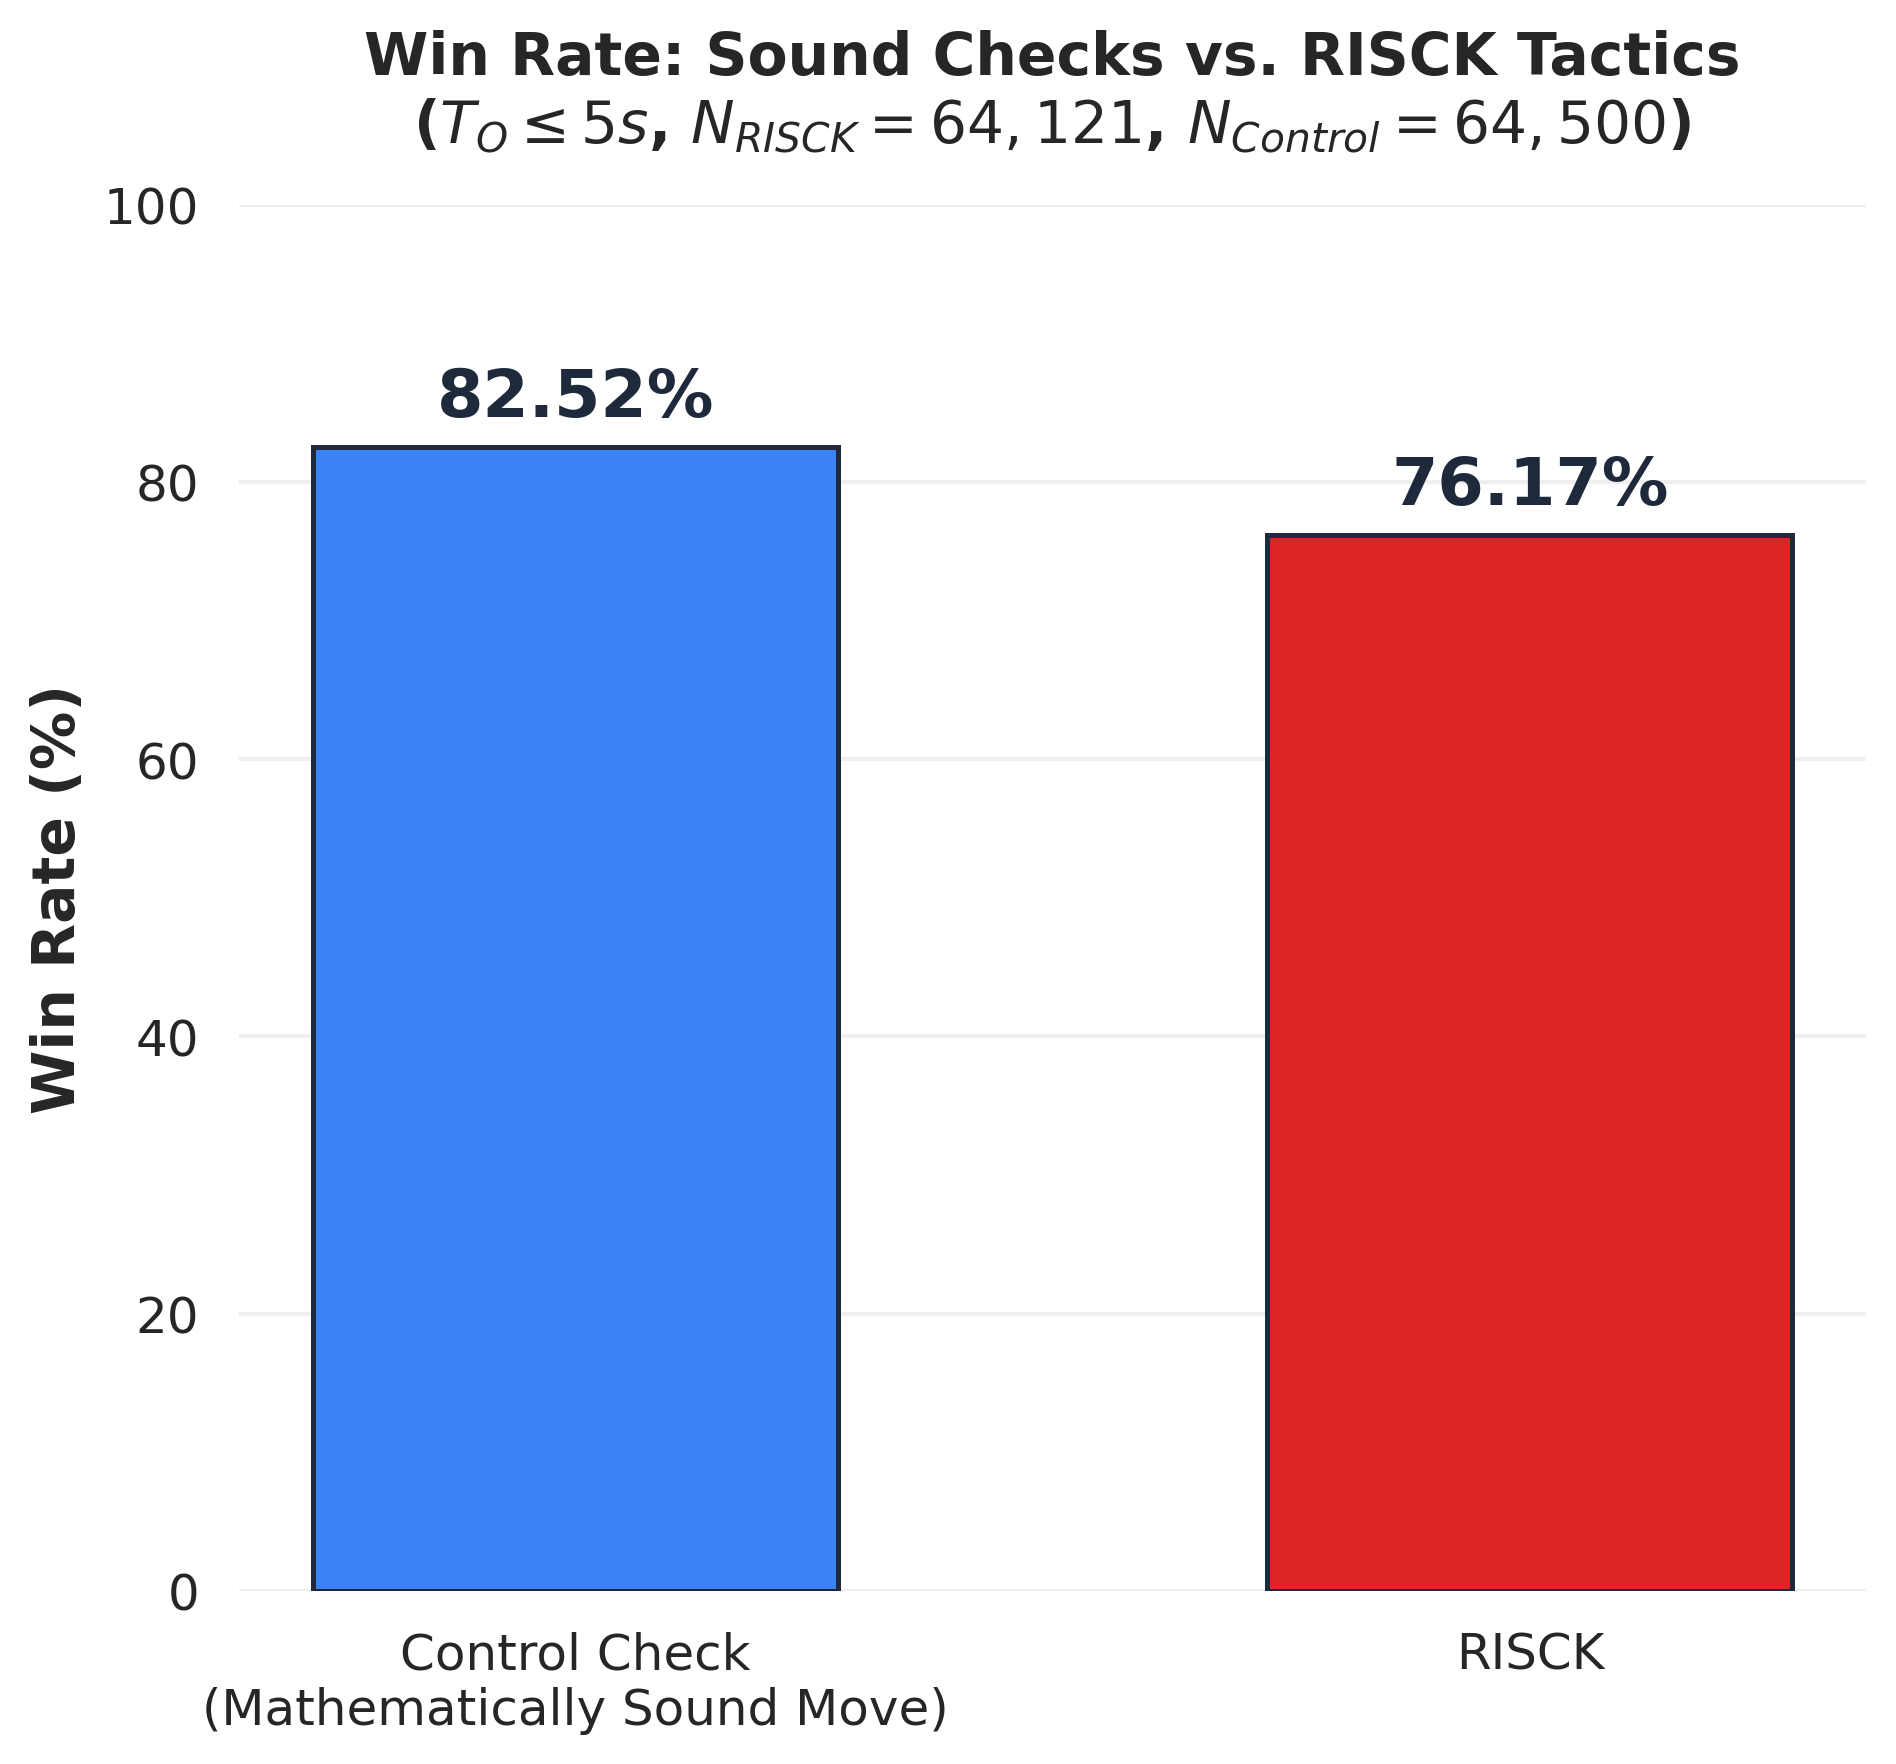
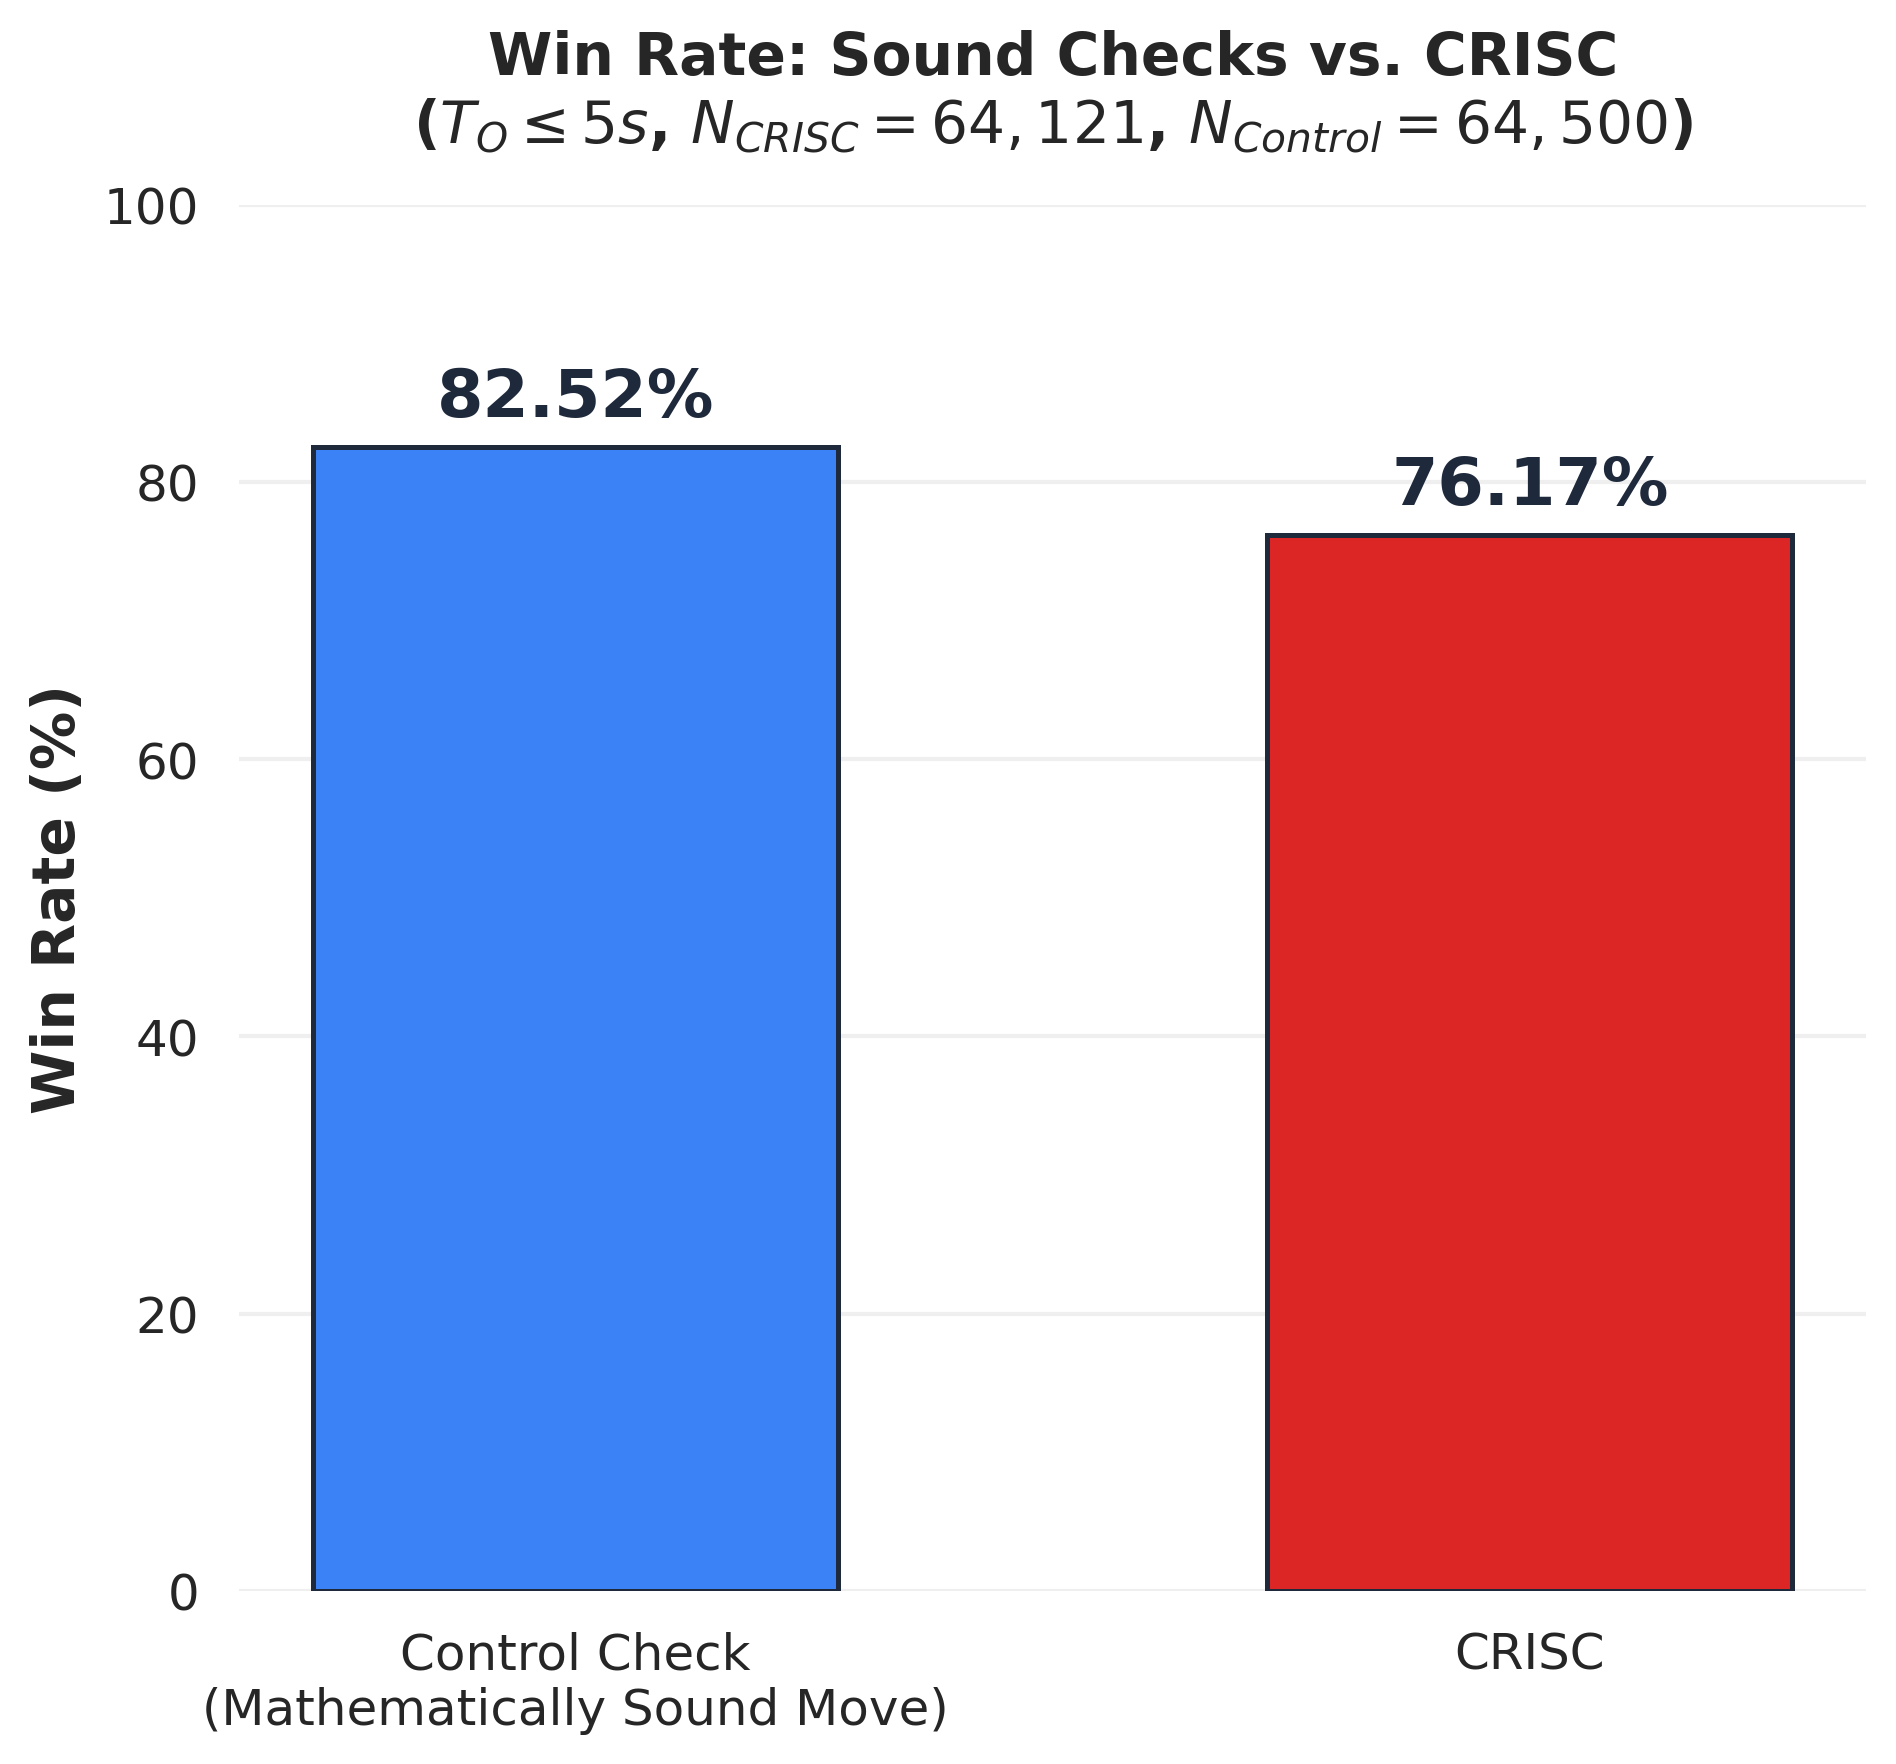
docs: apply renaming from RISCK to CRISC without breaking functionality

Changed region(s): [[0.1867, 0.0, 0.9335, 0.0935], [0.778, 0.9042, 0.8402, 0.9666]]

diff --git a/crisc_winrate.py b/crisc_winrate.py
@@ -2,32 +2,32 @@ import pandas as pd
 import sys
 
 if len(sys.argv) < 2:
-    print("Usage: python risck_winrate.py <MONTH>")
+    print("Usage: python crisc_winrate.py <MONTH>")
     sys.exit(1)
 
 month = sys.argv[1]
 
-print("Calculating Global RISCK Win Rate ...")
+print("Calculating Global CRISC Win Rate ...")
 
-# 1. Load the finalized RISCK dataset
-df = pd.read_csv(f'./true_riscks/true_riscks_{month}.csv')
-total_riscks = len(df)
+# 1. Load the finalized CRISC dataset
+df = pd.read_csv(f'./true_criscs/true_criscs_{month}.csv')
+total_criscs = len(df)
 
-if total_riscks == 0:
-    print("Dataset is empty. No RISCKs to analyze.")
+if total_criscs == 0:
+    print("Dataset is empty. No CRISCs to analyze.")
     exit()
 
-# 2. Filter for games where the player who executed the RISCK actually won
+# 2. Filter for games where the player who executed the CRISC actually won
 # '1-0' means White won, '0-1' means Black won
-white_wins = df[(df['risck_player'] == 'White') & (df['result'] == '1-0')]
-black_wins = df[(df['risck_player'] == 'Black') & (df['result'] == '0-1')]
+white_wins = df[(df['crisc_player'] == 'White') & (df['result'] == '1-0')]
+black_wins = df[(df['crisc_player'] == 'Black') & (df['result'] == '0-1')]
 
 total_wins = len(white_wins) + len(black_wins)
 
 # 3. Calculate the percentage
-win_rate = (total_wins / total_riscks) * 100
+win_rate = (total_wins / total_criscs) * 100
 
-print(f"Total True RISCKs analyzed: {total_riscks}")
-print(f"Total games WON after executing a RISCK: {total_wins}")
-print(f"\n--- GLOBAL RISCK WIN RATE ---")
+print(f"Total True CRISCs analyzed: {total_criscs}")
+print(f"Total games WON after executing a CRISC: {total_wins}")
+print(f"\n--- GLOBAL CRISC WIN RATE ---")
 print(f"{win_rate:.2f}%\n")

diff --git a/crisc_geometric_filter.py b/crisc_geometric_filter.py
@@ -3,19 +3,19 @@ import chess
 import sys
 
 if len(sys.argv) < 2:
-    print("Usage: python risck_geometric_filter.py <MONTH>")
+    print("Usage: python crisc_geometric_filter.py <MONTH>")
     sys.exit(1)
 
 month = sys.argv[1]
 
-print("Starting Step 2: Geometric RISCK Filter...")
+print("Starting Step 2: Geometric CRISC Filter...")
 
 # 1. Load the Step 1 (DuckDB) Data
-df = pd.read_csv(f'./candidate_riscks/candidate_riscks_{month}.csv')
+df = pd.read_csv(f'./candidate_criscs/candidate_criscs_{month}.csv')
 total_candidates = len(df)
-print(f"Loaded {total_candidates} candidate RISCKs. Processing...")
+print(f"Loaded {total_candidates} candidate CRISCs. Processing...")
 
-true_riscks = []
+true_criscs = []
 error_count = 0
 
 # 2. Iterate over the FULL dataset
@@ -23,7 +23,7 @@ for index, row in df.iterrows():
     
     # Print a progress update every 10,000 rows
     if index > 0 and index % 10000 == 0:
-        print(f"Processed {index}/{total_candidates} rows... Found {len(true_riscks)} RISCKs so far.")
+        print(f"Processed {index}/{total_candidates} rows... Found {len(true_criscs)} CRISCs so far.")
         
     game_id = row['lichess_id']
     target_ply = int(row['ply'])
@@ -46,20 +46,20 @@ for index, row in df.iterrows():
         is_major_piece = piece_type != chess.PAWN
         
         if is_adjacent and is_capturable and is_major_piece:
-            true_riscks.append(row)
+            true_criscs.append(row)
             
     except ValueError as e:
         error_count += 1
         continue
 
 # 3. Save the final refined dataset
-final_df = pd.DataFrame(true_riscks)
+final_df = pd.DataFrame(true_criscs)
 if not final_df.empty:
     final_df = final_df.drop(columns=['move_list'])
-final_df.to_csv(f'./true_riscks/true_riscks_{month}.csv', index=False)
+final_df.to_csv(f'./true_criscs/true_criscs_{month}.csv', index=False)
 
-print(f"\nStep 2 (Geometric RISCK Filter) Complete!")
-print(f"Found {len(true_riscks)} True RISCKs out of {total_candidates} total candidates.")
+print(f"\nStep 2 (Geometric CRISC Filter) Complete!")
+print(f"Found {len(true_criscs)} True CRISCs out of {total_candidates} total candidates.")
 if error_count > 0:
     print(f"Note: {error_count} games were skipped due to PGN/UCI parsing errors.")
-print(f"Saved to './true_riscks/true_riscks_{month}.csv'.")
+print(f"Saved to './true_criscs/true_criscs_{month}.csv'.")

diff --git a/generate_visuals.py b/generate_visuals.py
@@ -41,11 +41,11 @@ ctrl_n_sampled = int(ctrl_combined['Total_Sampled'])
 ctrl_wr = float(ctrl_combined['Win_Rate'].strip('%')) if 'Win_Rate' in ctrl_combined and pd.notna(ctrl_combined['Win_Rate']) else None
 
 # ============================================================
-# FIGURE 1: RISCK Win Rate vs Baseline
+# FIGURE 1: CRISC Win Rate vs Baseline
 # ============================================================
 fig1, ax1 = plt.subplots(figsize=(7, 6))
 
-categories = ['Control Check\n(Mathematically Sound Move)', 'RISCK\n']
+categories = ['Control Check\n(Mathematically Sound Move)', 'CRISC\n']
 values = [ctrl_wr, combined_wr]
 colors = ['#3b82f6', '#dc2626']
 
@@ -59,8 +59,8 @@ for bar, val in zip(bars, values):
              fontsize=16, fontweight='bold', color='#1e293b')
 
 ax1.set_ylabel('Win Rate (%)', fontsize=14, fontweight='bold')
-ax1.set_title(f'Win Rate: Sound Checks vs. RISCK Tactics\n'
-              f'($T_O \\leq {T_O_THRESHOLD}s$, $N_{{RISCK}} = {combined_n:,}$, $N_{{Control}} = {ctrl_n_sampled:,}$)',
+ax1.set_title(f'Win Rate: Sound Checks vs. CRISC\n'
+              f'($T_O \\leq {T_O_THRESHOLD}s$, $N_{{CRISC}} = {combined_n:,}$, $N_{{Control}} = {ctrl_n_sampled:,}$)',
               fontsize=14, fontweight='bold', pad=15)
 ax1.set_ylim(0, 100)
 ax1.tick_params(axis='both', labelsize=12)
@@ -74,11 +74,11 @@ plt.close(fig1)
 print("Saved fig1_winrate.png")
 
 # ============================================================
-# FIGURE 2: RISCK vs Control Reaction Time
+# FIGURE 2: CRISC vs Control Reaction Time
 # ============================================================
 fig2, ax2 = plt.subplots(figsize=(7, 6))
 
-categories2 = ['Control Check\n(Mathematically Sound Move)', 'RISCK\n']
+categories2 = ['Control Check\n(Mathematically Sound Move)', 'CRISC\n']
 values2 = [ctrl_ro, combined_ro]
 colors2 = ['#3b82f6', '#dc2626']
 
@@ -100,8 +100,8 @@ ax2.annotate(f'$\\Delta = -{delta:.2f}s$',
              ha='center')
 
 ax2.set_ylabel('Reaction Time (seconds)', fontsize=14, fontweight='bold')
-ax2.set_title(f'Opponent Reaction Time: RISCK vs. Control\n'
-              f'($T_O \\leq {T_O_THRESHOLD}s$, $N_{{RISCK}} = {combined_n:,}$, $N_{{Control}} = {ctrl_n_valid:,}$)',
+ax2.set_title(f'Opponent Reaction Time: CRISC vs. Control\n'
+              f'($T_O \\leq {T_O_THRESHOLD}s$, $N_{{CRISC}} = {combined_n:,}$, $N_{{Control}} = {ctrl_n_valid:,}$)',
               fontsize=13, fontweight='bold', pad=15)
 ax2.set_ylim(0, 1.8)
 ax2.tick_params(axis='both', labelsize=12)

diff --git a/control_opponent_reaction.py b/control_opponent_reaction.py
@@ -36,7 +36,7 @@ COPY (
             lichess_id,
             ply,
             result,
-            CASE WHEN ply % 2 = 1 THEN 'White' ELSE 'Black' END AS risck_player
+            CASE WHEN ply % 2 = 1 THEN 'White' ELSE 'Black' END AS crisc_player
         FROM exploded_games
         WHERE 
             moves[ply].is_check = TRUE
@@ -87,7 +87,7 @@ for month in months:
     SELECT 
         c.lichess_id, 
         c.ply, 
-        c.risck_player, 
+        c.crisc_player, 
         p.clocks_white, 
         p.clocks_black
     FROM controls c
@@ -101,7 +101,7 @@ for month in months:
 
     for _, row in results.iterrows():
         ply = int(row['ply'])
-        player = row['risck_player']
+        player = row['crisc_player']
         clocks_white = row['clocks_white']
         clocks_black = row['clocks_black']
 

diff --git a/control_winrate.py b/control_winrate.py
@@ -3,8 +3,8 @@ import os
 
 def compute_win_stats(dataframe):
     total = len(dataframe)
-    white_wins = len(dataframe[(dataframe['risck_player'] == 'White') & (dataframe['result'] == '1-0')])
-    black_wins = len(dataframe[(dataframe['risck_player'] == 'Black') & (dataframe['result'] == '0-1')])
+    white_wins = len(dataframe[(dataframe['crisc_player'] == 'White') & (dataframe['result'] == '1-0')])
+    black_wins = len(dataframe[(dataframe['crisc_player'] == 'Black') & (dataframe['result'] == '0-1')])
     total_wins = white_wins + black_wins
     win_rate = (total_wins / total) * 100 if total > 0 else 0
     return white_wins, black_wins, total_wins, win_rate